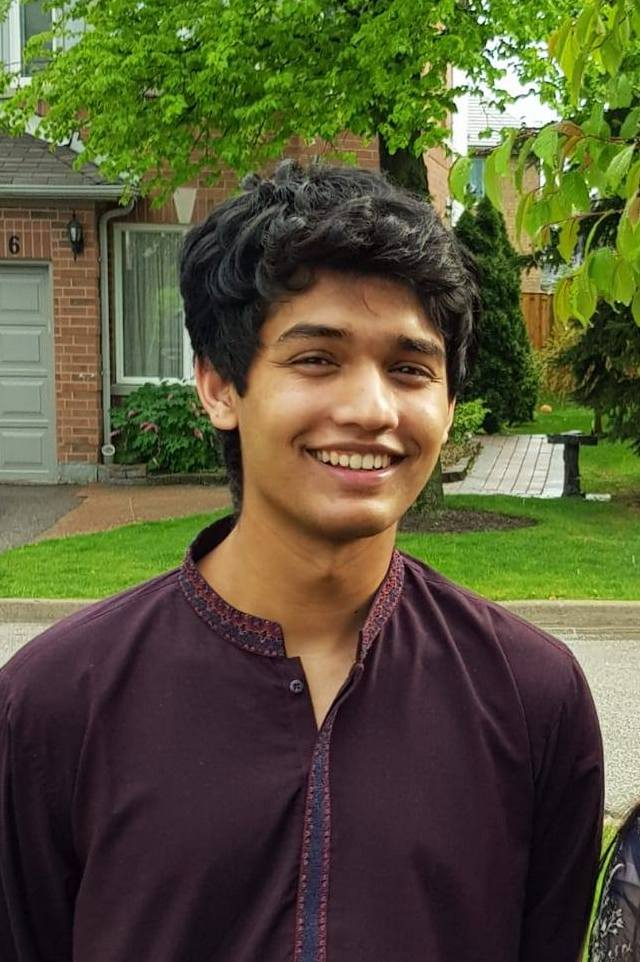
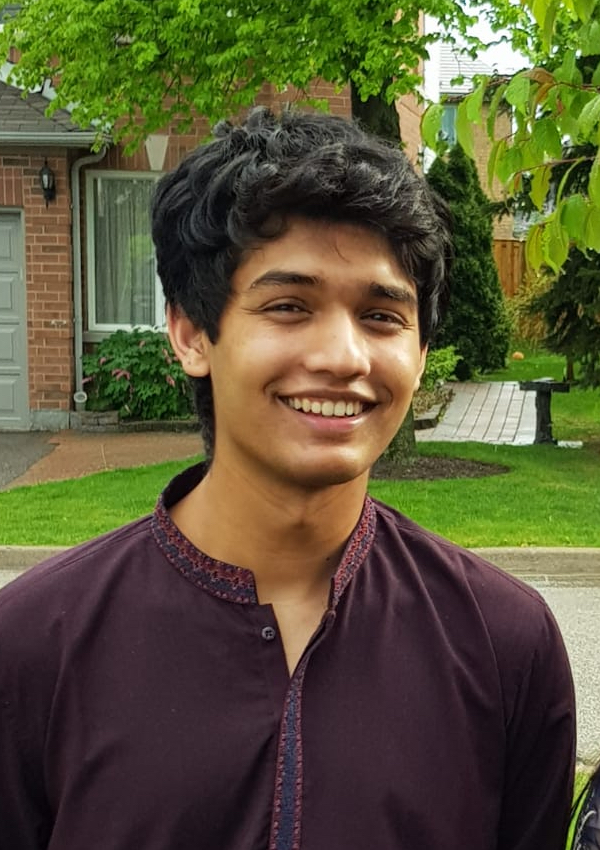
Bump irfansharif/central, and misc adjustments

diff --git a/content/posts/living-without-atomic-clocks.md b/content/posts/living-without-atomic-clocks.md
@@ -3,10 +3,6 @@ title: "Living Without Atomic Clocks"
 date: 2020-04-21
 ---
 
-{{< load-photoswipe >}}
-
-<label for="mn-blue-links" class="margin-toggle">&#8853;</label>
-<input type="checkbox" id="mn-blue-links" class="margin-toggle"/>
 <span class="marginnote">
   The world's first caesium-133 atomic clock (1955), and otherwise unrelated
   everything else here.
@@ -14,11 +10,16 @@ date: 2020-04-21
 {{< gallery hover-effect="none" caption-effect="none" >}}
   {{< figure src="img/first-atomic-clock.jpg" size="1000x408" thumb="img/first-atomic-clock.jpg" caption="The world's first caesium-133 atomic clock (1955), and otherwise unrelated everything else here." >}}
 {{< /gallery >}}
+<span class="collapsed-marginnote">
+  The world's first caesium-133 atomic clock (1955), and otherwise unrelated
+  everything else here.
+</span>
 
-_This was originally authored by Spencer about four years ago, and we figured
-it could do with a refresh. You'll also find it on our company [engineering
-blog](https://www.cockroachlabs.com/blog/living-without-atomic-clocks/). To get
-posted on new writing, [subscribe](/newsletter)._
+_This was originally authored by Spencer Kimball about four years ago; I
+tried re-writing it to understand it better. You'll also find it on our company
+[engineering blog](https://www.cockroachlabs.com/blog/living-without-atomic-clocks/).
+To keep up with new writing, sign up for my (entirely inactive)
+[newsletter](/newsletter)._
 
 ---
 
@@ -121,15 +122,19 @@ will appear to have happened before \\(T_1\\)'s (at \\(ts =
 150ms\\)), despite the opposite being true. ¡No bueno! (Note that this can only
 happen when the two transactions access a disjoint set of keys.)
 
-<label for="mn-blue-links" class="margin-toggle">&#8853;</label>
-<input type="checkbox" id="mn-blue-links" class="margin-toggle"/>
 <span class="marginnote">
   Causally related transactions committing out of order due to unsynchronized
   clocks.
 </span>
 {{< gallery hover-effect="none" caption-effect="none" >}}
-  {{< figure src="img/causal-reverse.png" size="3130x1676" thumb="img/causal-reverse.png" caption="Causally related transactions committing out of order due to unsynchronized clocks." >}}
+  {{< figure src="img/causal-reverse.png" size="3130x1676"
+      thumb="img/causal-reverse.png"
+      caption="Causally related transactions committing out of order due to unsynchronized clocks." >}}
 {{< /gallery >}}
+<span class="collapsed-marginnote">
+  Figure 1. Causally related transactions committing out of order due to
+  unsynchronized clocks.
+</span>
 
 The anomaly described here, and shown in the figure above, is something we call
 "causal reverse". While Spanner provides linearizability, CRDB only goes as far
@@ -234,8 +239,8 @@ does, though with much looser clock synchronization requirements. Put simply:
 When CRDB starts a transaction, it chooses a provisional commit
 timestamp based on the current node's wall time. It also establishes an upper
 bound on the selected wall time by adding the maximum clock offset for the
-cluster. This time interval, \\([\\mathit{commit\ timestamp}, \\mathit{commit\ timestamp} +
-\\mathit{maximum\ clock\ offset}]\\), represents the window of uncertainty.
+cluster. This time interval, \\([\ \\mathit{commit\ ts},  \\mathit{commit\ ts} +
+\\mathit{max\ clock\ offset}\ ]\\), represents the window of uncertainty.
 
 As the transaction reads data from various nodes, it proceeds without
 difficulty so long as it doesn't encounter a key written within this interval.

diff --git a/content/about.md b/content/about.md
@@ -4,20 +4,40 @@ TabName: About
 
 ## About.
 
-<figure><img src="/img/face.jpg" style="float: left; width: 50%; margin-right: 1.4rem; margin-top: 2rem;"/></figure>
+<style>
+  .face {
+    float: left;
+    width: 35%;
+    margin-right: 1rem;
+    margin-top: 0.4rem;
+    margin-bottom: 0.4rem;
+  }
+  @media (max-width: 435px) {
+    .face {
+      width: 100%;
+      margin-bottom: 1rem;
+      margin-right: 1rem;
+      display: block;
+    }
+    .face-figure {
+      max-width: 100%;
+    }
+  }
+</style>
+<figure class="face-figure"><img src="/img/face.jpg" class="face"/></figure>
 
 I'm an engineer on the distributed key-value store underlying
-[CockroachDB](https://github.com/cockroachdb/cockroach). I've intern here twice
-before, working on storage performance and our query execution engine. Other
-than that I've interned at [LinkedIn](https://linkedin.com) working on their ML
-infrastructure _(tensorflow, but built in-house because reasons)_, at
+[CRDB](https://github.com/cockroachdb/cockroach). I've interned here twice
+before, working on storage performance and our query execution engine. Previous
+to that I was at [LinkedIn](https://linkedin.com) working on their ML
+infrastructure _(tensorflow but built in-house, because why not)_, at
 [Amazon](https://amazon.com) working on search relevance _(string matching, but
-worse)_, and at [Shopify](https://shopify.com) as a production engineer
-_(run-of-the-mill infrastructure work, nothing to write home about)._
+demonstrably worse)_, and at [Shopify](https://shopify.com) as a production
+engineer _(some run-of-the-mill infrastructure work)_. Separately, while at
+[Waterloo](https://uwaterloo.ca), I tried a few research stints studying SAT
+solvers and then speculative consensus protocols. Nothing really came of
+either so I gave up.
 
-Between all that, during my time at [Waterloo](https://uwaterloo.ca), I tried a
-bit of research studying SAT solvers and speculative consensus protocols at.
-Nothing really came of either so I gave up.
-
-I'm reachable via [twitter](https://twitter.com/irfansharifm) or
-[e-mail](mailto:irfan@irfansharif.io).
+I'm reachable through
+[twitter](https://twitter.com/irfansharifm)/[e-mail](mailto:irfan@irfansharif.io).
+To keep up with new writing, sign up for my [newsletter](/newsletter).
